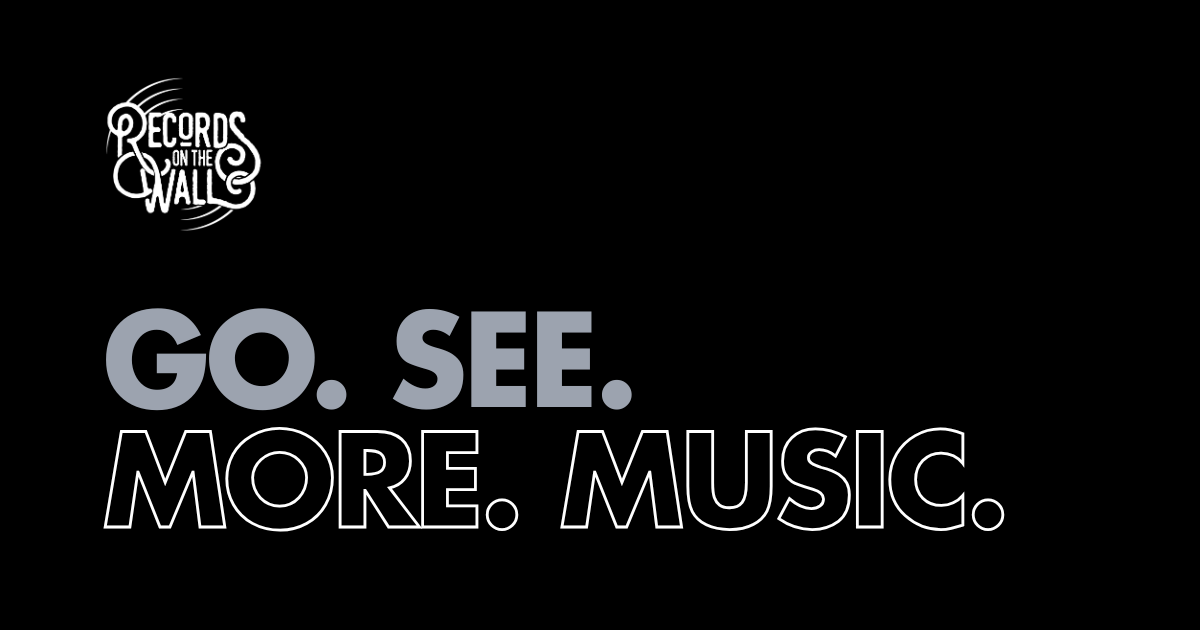
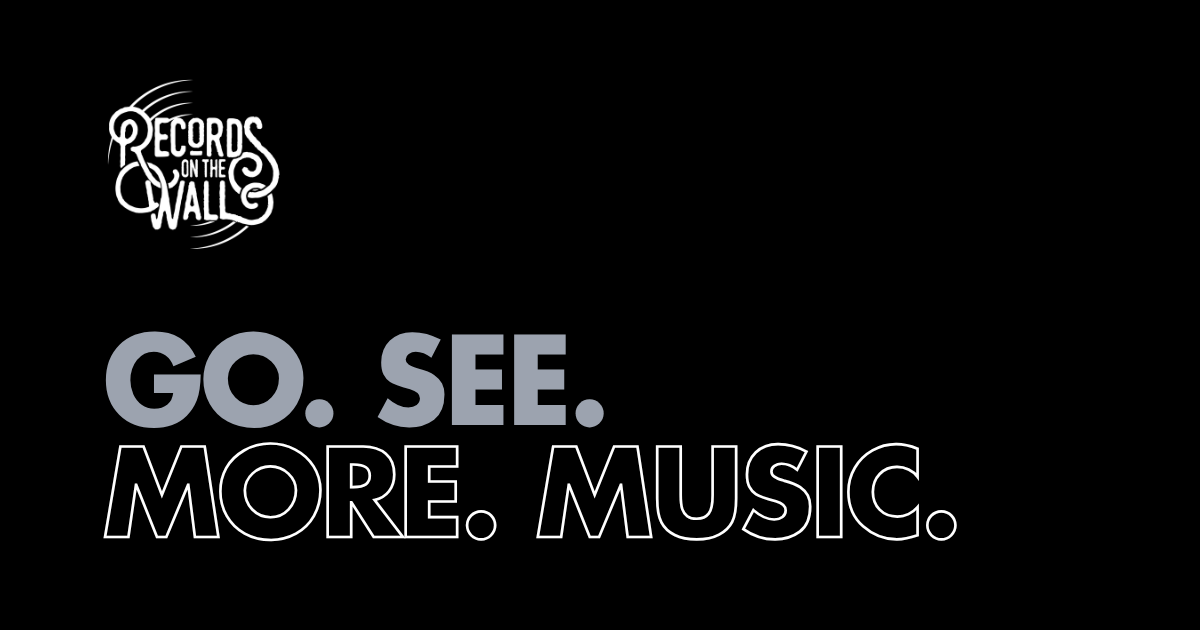
updated about page and og-main image

Changed region(s): [[0.0617, 0.4825, 0.8325, 0.8746], [0.0925, 0.1206, 0.2467, 0.3921]]

diff --git a/app/about/page.tsx b/app/about/page.tsx
@@ -59,18 +59,6 @@ export default function AboutPage() {
         >
           We look forward to seeing you at an upcoming show!
         </p>
-
-        <p
-          className={cn(
-            "mx-auto max-w-[42rem] leading-relaxed text-muted-foreground",
-            "text-[18px] md:text-lg lg:text-2xl font-light",
-            "animate-in fade-in-5 slide-in-from-bottom-20 duration-1000",
-          )}
-        >
-          Best,<br />
-          Eric R. Levasseur<br />
-          Founder & Developer
-        </p>
       </div>
 
       {/* FAQ Section */}
@@ -90,9 +78,9 @@ export default function AboutPage() {
 
             <AccordionItem value="item-2">
               <AccordionTrigger className="text-base md:text-lg">How do I transfer or sell a ticket to someone?</AccordionTrigger>
-                <AccordionContent className="text-base md:text-base font-thin">
+              <AccordionContent className="text-base md:text-base font-thin">
                 You&#39;ll need to make arrangements with that person.  Records On The Wall is not responsble for any secondary market transactions.  If you&#39;re transferring a ticket, you can simply email us <a href="mailto:info@recsonthewall.com" className="text-orange-500 font-light" target="_blank" rel="noopener noreferrer">here</a>.
-                </AccordionContent>
+              </AccordionContent>
             </AccordionItem>
 
             <AccordionItem value="item-3">
@@ -112,15 +100,15 @@ export default function AboutPage() {
             <AccordionItem value="item-5">
               <AccordionTrigger className="text-base md:text-lg">What are the ticket fees?</AccordionTrigger>
               <AccordionContent className="text-base md:text-base font-thin">
-                Any ticket of $10 or more is $3.50/ticket. For tickets under $10, the fee is $1.00/ticket.  We itemize all sales tax and fees before you get to checkout, so you know exactly what you&#39;re paying for. 
+                Any ticket of $10 or more is $3.50/ticket. For tickets under $10, the fee is $1.00/ticket.  We itemize all sales tax and fees before you get to checkout, so you know exactly what you&#39;re paying for.
               </AccordionContent>
             </AccordionItem>
 
             <AccordionItem value="item-6">
               <AccordionTrigger className="text-base md:text-lg">I have some questions about my purchase. What should I do?</AccordionTrigger>
-                <AccordionContent className="text-base md:text-base font-thin">
+              <AccordionContent className="text-base md:text-base font-thin">
                 Send us a line. We&#39;re here to help you out anytime. You can email us <a href="mailto:info@recsonthewall.com" className="text-orange-500 font-light" target="_blank" rel="noopener noreferrer">here</a>.
-                </AccordionContent>
+              </AccordionContent>
             </AccordionItem>
           </Accordion>
         </div>
